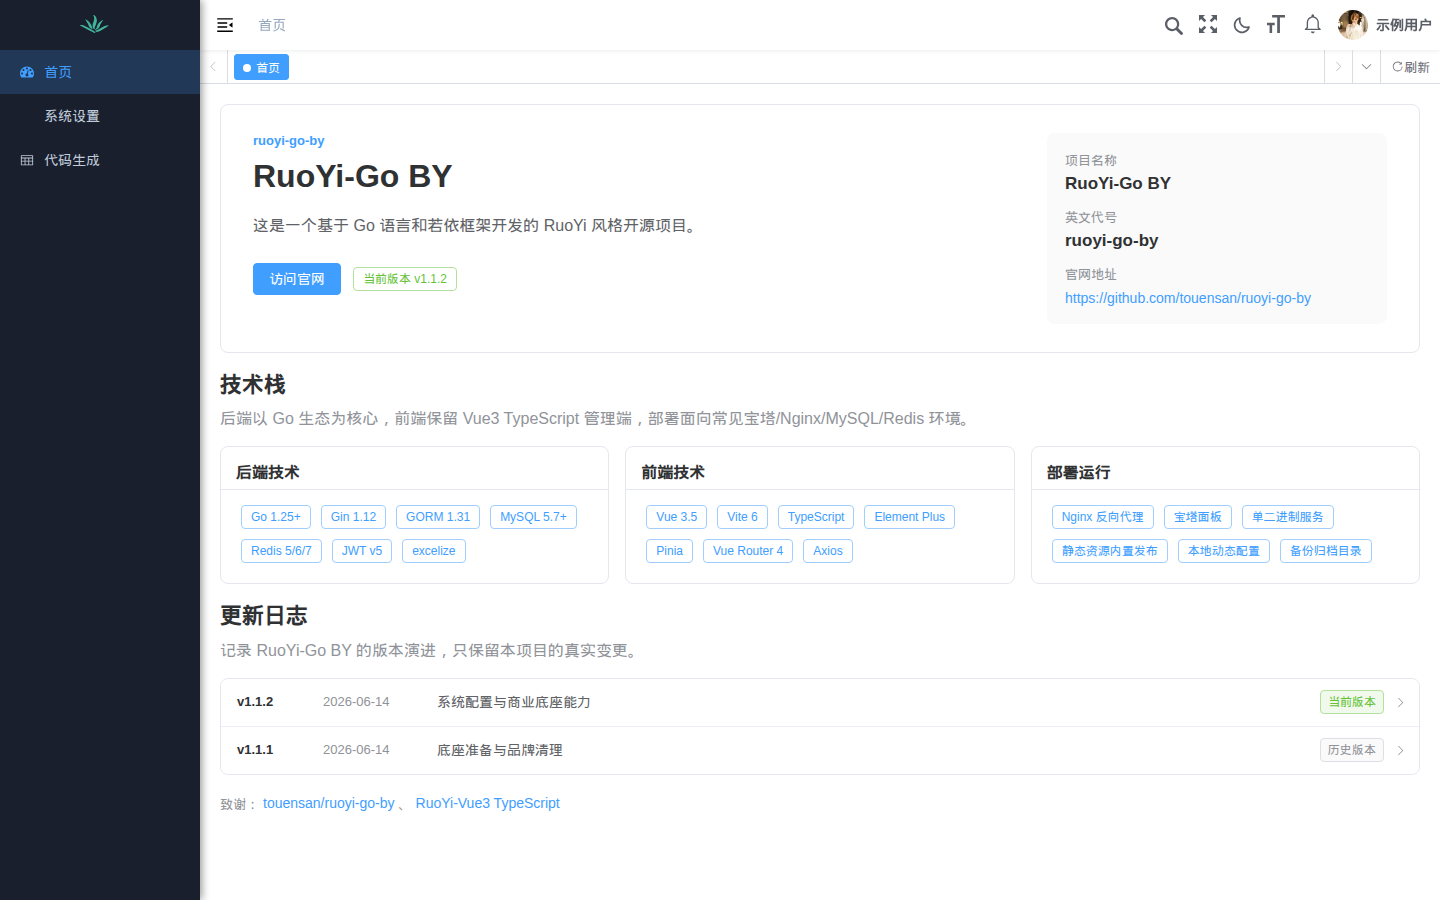
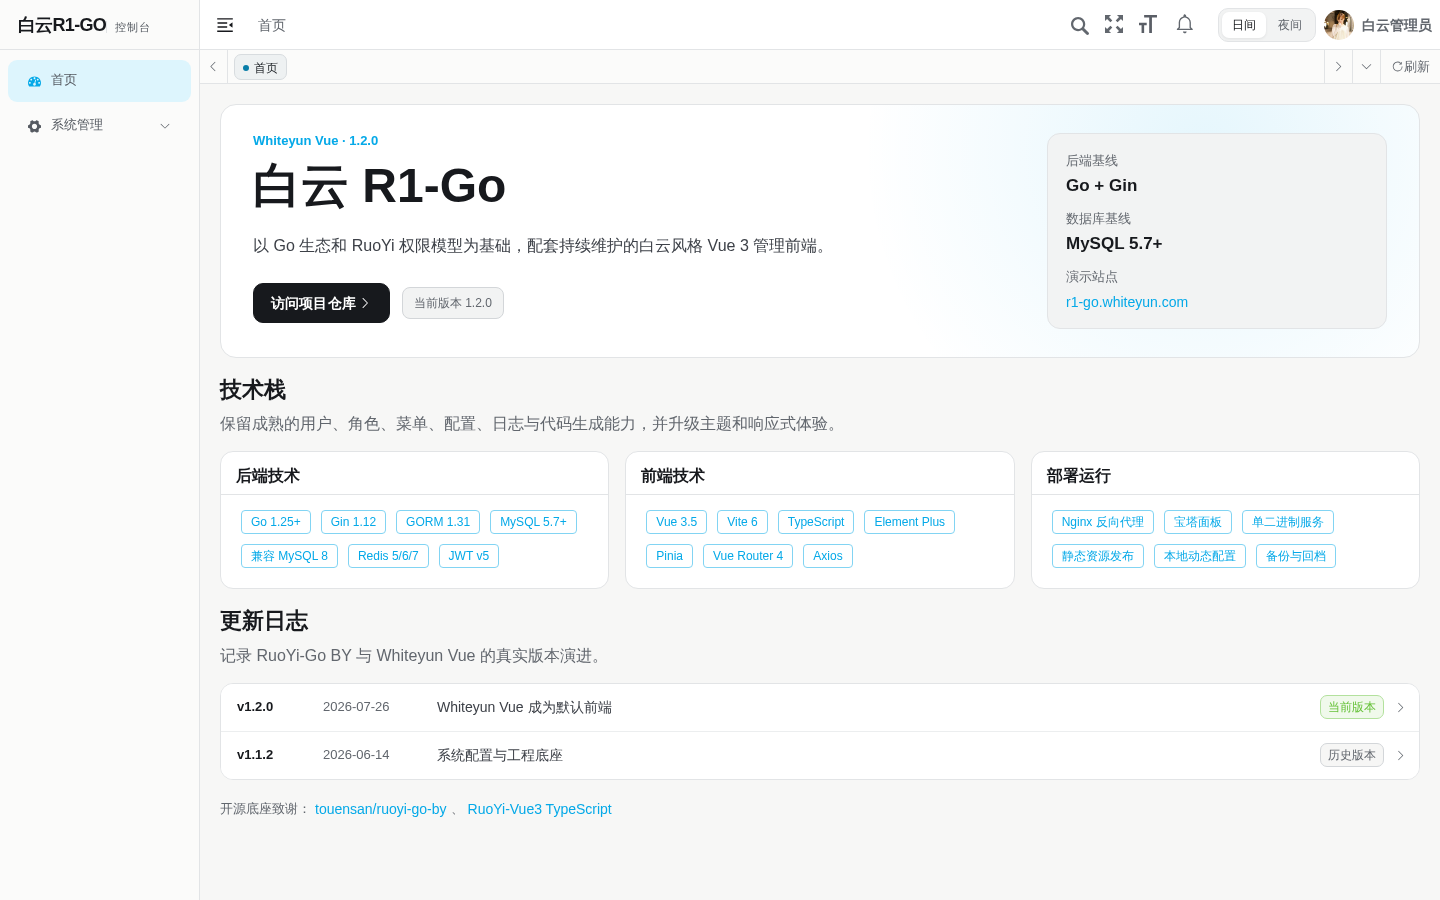
update R1-Go demo with Whiteyun Vue

diff --git a/frontend/whiteyun-vue/src/views/index.vue b/frontend/whiteyun-vue/src/views/index.vue
@@ -2,14 +2,14 @@
   <div class="app-container home">
     <section class="intro-panel">
       <div class="intro-copy">
-        <p class="product-code">授权服务控制台 · {{ productVersion }}</p>
-        <h1>授权业务概览</h1>
+        <p class="product-code">Whiteyun Vue · {{ productVersion }}</p>
+        <h1>白云 R1-Go</h1>
         <p class="product-summary">
-          统一管理应用、授权方案、许可证和运行状态，让签发、激活、续期、暂停与吊销保持清晰可追溯。
+          以 Go 生态和 RuoYi 权限模型为基础，配套持续维护的白云风格 Vue 3 管理前端。
         </p>
         <div class="intro-actions">
-          <el-button class="intro-primary-action" type="primary" @click="goAuthorization">
-            <span>进入授权管理</span>
+          <el-button class="intro-primary-action" type="primary" @click="openProject">
+            <span>访问项目仓库</span>
             <el-icon><ArrowRight /></el-icon>
           </el-button>
           <el-tag class="intro-version-tag" effect="plain">当前版本 {{ productVersion }}</el-tag>
@@ -18,16 +18,16 @@
 
       <div class="runtime-box">
         <div>
-          <span>运行环境</span>
-          <strong>生产试运行</strong>
+          <span>后端基线</span>
+          <strong>Go + Gin</strong>
         </div>
         <div>
-          <span>公开协议</span>
-          <strong>/api/license/v1</strong>
+          <span>数据库基线</span>
+          <strong>MySQL 5.7+</strong>
         </div>
         <div>
-          <span>管理域名</span>
-          <el-link :href="adminOrigin" target="_blank" type="primary">apiauth.whiteyun.com</el-link>
+          <span>演示站点</span>
+          <el-link :href="demoOrigin" target="_blank" type="primary">r1-go.whiteyun.com</el-link>
         </div>
       </div>
     </section>
@@ -35,7 +35,7 @@
     <section class="stack-section">
       <div class="section-heading">
         <h2>技术栈</h2>
-        <p>后端负责许可证、签名租约与公开协议，管理端负责商业目录、许可证、运行态、密钥和审计。</p>
+        <p>保留成熟的用户、角色、菜单、配置、日志与代码生成能力，并升级主题和响应式体验。</p>
       </div>
 
       <el-row :gutter="16">
@@ -55,7 +55,7 @@
     <section class="changelog-section">
       <div class="section-heading">
         <h2>更新日志</h2>
-        <p>记录 APIAuth 的版本演进，只保留本项目的真实变更。</p>
+        <p>记录 RuoYi-Go BY 与 Whiteyun Vue 的真实版本演进。</p>
       </div>
 
       <el-scrollbar class="changelog-scroll" max-height="260px">
@@ -94,15 +94,15 @@
 </template>
 
 <script setup lang="ts">
-const router = useRouter()
-const productVersion = '1.0.0-rc.1'
-const adminOrigin = 'https://apiauth.whiteyun.com/admin/'
+const productVersion = '1.2.0'
+const projectUrl = 'https://github.com/touensan/ruoyi-go-by'
+const demoOrigin = 'https://r1-go.whiteyun.com/'
 const activeLog = ref<string>('')
 
 const stackGroups = [
   {
     title: '后端技术',
-    items: ['Go 1.26.5', 'Gin 1.12', 'GORM 1.31', 'MySQL 5.7+', '兼容 MySQL 8', 'Redis 7', 'Ed25519', 'JWT v5']
+    items: ['Go 1.25+', 'Gin 1.12', 'GORM 1.31', 'MySQL 5.7+', '兼容 MySQL 8', 'Redis 5/6/7', 'JWT v5']
   },
   {
     title: '前端技术',
@@ -110,43 +110,43 @@ const stackGroups = [
   },
   {
     title: '部署运行',
-    items: ['宝塔与 Nginx', 'systemd', '单二进制服务', '静态资源内置', '本机数据服务', '签名备份与恢复']
+    items: ['Nginx 反向代理', '宝塔面板', '单二进制服务', '静态资源发布', '本地动态配置', '备份与回档']
   }
 ]
 
 const changelog = [
   {
-    version: '1.0.0-rc.1',
-    date: '2026-07-25',
-    title: '生产试运行候选',
-    status: '当前候选',
+    version: 'v1.2.0',
+    date: '2026-07-26',
+    title: 'Whiteyun Vue 成为默认前端',
+    status: '当前版本',
     current: true,
-    summary: '统一授权后台、公开协议、三语言 SDK、离线签名与生产运维能力进入试运行验收。',
+    summary: '新增独立维护的 Whiteyun Vue 前端，同时保留冻结的 RuoYi Vue 兼容版本。',
     items: [
-      '管理应用、版本、权益、套餐、许可证、运行态、签名密钥和授权审计。',
-      '公开授权 API 支持激活、刷新、解绑、公钥集、离线请求与更新检查。',
-      'Go、PHP/WordPress、Java SDK 共享 Ed25519 签名租约与三态验证语义。',
-      '许可证与安装凭据只存摘要，完整许可证仅在受控签发或替换响应中显示一次。',
-      'Nginx、systemd、MySQL 8、Redis 7、备份恢复与监控基线已部署；程序以 MySQL 5.7+ 为兼容基准。'
+      '重做管理端日间与夜间配色，统一侧边栏、顶部导航、标签页、表单和弹层。',
+      '三种导航布局均可随主题正确切换，桌面、平板和手机端保持可用。',
+      '登录页、后台首页、系统配置与代码生成页面共享同一套视觉变量。',
+      '默认构建入口切换到 frontend/whiteyun-vue，历史路径继续兼容旧脚本。',
+      'frontend/ruoyi-vue 仅作旧视觉兼容保留，不再接收常规功能与界面更新。'
     ]
   },
   {
-    version: 'foundation',
-    date: '2026-07-25',
-    title: '授权平台工程底座',
-    status: '已替代',
+    version: 'v1.1.2',
+    date: '2026-06-14',
+    title: '系统配置与工程底座',
+    status: '历史版本',
     current: false,
-    summary: '在 ruoyi-go-by 与 RuoYi-Vue3 TypeScript 基础上建立 APIAuth 独立商业授权领域。',
+    summary: '补齐站点、支付和邮箱配置，并整理后端运行、构建与部署基础。',
     items: [
-      '管理 JWT/RBAC 与客户端许可证身份域保持隔离。',
-      'MySQL 版本化 migration 是数据库结构唯一权威，生产禁用自动迁移。',
-      '应用、套餐、许可证与签名租约的关键写入保持事务、幂等与审计一致。'
+      '系统配置集中管理站点信息、支付参数和邮箱参数。',
+      '后端基于 Go、Gin、GORM、MySQL、Redis 与 JWT。',
+      '管理端继续兼容动态菜单、RBAC、文件上传和代码生成。'
     ]
   }
 ]
 
-function goAuthorization(): void {
-  router.push('/auth/catalog')
+function openProject(): void {
+  window.open(projectUrl, '_blank', 'noopener,noreferrer')
 }
 </script>
 

diff --git a/frontend/whiteyun-vue/src/views/login.vue b/frontend/whiteyun-vue/src/views/login.vue
@@ -1,10 +1,10 @@
 <template>
   <div class="login">
     <header class="login-header">
-      <a href="/" class="login-brand" aria-label="返回 APIAuth 官网">APIAuth</a>
+      <a href="/" class="login-brand" :aria-label="`${appTitle} 首页`">{{ appTitle }}</a>
       <nav class="login-nav" aria-label="辅助导航">
-        <a href="/">官网首页</a>
-        <a href="/docs/">接入文档</a>
+        <a href="/">演示首页</a>
+        <a href="https://github.com/touensan/ruoyi-go-by" target="_blank" rel="noreferrer">项目仓库</a>
         <div class="theme-segmented" role="group" aria-label="界面主题">
           <button type="button" :class="{ active: !settingsStore.isDark }" @click="settingsStore.setTheme(false)">日间</button>
           <button type="button" :class="{ active: settingsStore.isDark }" @click="settingsStore.setTheme(true)">夜间</button>
@@ -15,21 +15,21 @@
     <main class="login-shell">
       <section class="login-story">
         <div class="story-copy">
-          <span class="release-badge"><i></i> 授权服务运行中</span>
-          <p class="eyebrow">APIAuth 授权控制中心</p>
-          <h1>软件授权<br>一处管理</h1>
-          <p class="story-summary">创建应用与授权方案，签发许可证，并管理激活、续期、暂停与吊销。</p>
+          <span class="release-badge"><i></i> Whiteyun Vue 已启用</span>
+          <p class="eyebrow">{{ appTitle }} 管理控制台</p>
+          <h1>清晰管理<br>高效协作</h1>
+          <p class="story-summary">基于 Go、Vue 3 与 RuoYi 权限模型构建的通用后台管理底座。</p>
           <div class="capability-list" aria-label="产品能力">
-            <span>在线激活</span>
-            <span>离线授权</span>
-            <span>三态验权</span>
-            <span>Ed25519</span>
+            <span>用户权限</span>
+            <span>系统配置</span>
+            <span>操作审计</span>
+            <span>代码生成</span>
           </div>
         </div>
         <div class="cube-visual" aria-hidden="true">
           <img :src="cubeVisualUrl" alt="">
           <div class="visual-status">
-            <span><i></i>许可证运营台</span>
+            <span><i></i>系统控制台</span>
             <strong>运行正常</strong>
           </div>
         </div>
@@ -89,7 +89,7 @@
             <router-link v-if="register" class="link-type" :to="'/register'">立即注册</router-link>
           </el-form-item>
         </el-form>
-        <p class="login-note">账号由平台管理员开通；许可证用户无需登录此处。</p>
+        <p class="login-note">请使用管理员分配的账号登录；生产部署前务必更换示例凭据。</p>
       </section>
     </main>
 
@@ -105,11 +105,12 @@ import Cookies from "js-cookie"
 import useUserStore from '@/store/modules/user'
 import useSettingsStore from '@/store/modules/settings'
 import defaultSettings from '@/settings'
-import cubeVisualUrl from '../../../site-resend-preview/static/cube-fallback.jpg'
+import cubeVisualUrl from '@/assets/images/login-background.jpg'
 import type { CaptchaInfoResult } from '@/types/api/login'
 import type { LoginForm } from '@/types/api/login'
 
 const footerContent = defaultSettings.footerContent
+const appTitle = import.meta.env.VITE_APP_TITLE || 'Whiteyun Vue'
 const userStore = useUserStore()
 const settingsStore = useSettingsStore()
 const route = useRoute()

diff --git a/frontend/whiteyun-vue/src/layout/components/Sidebar/Logo.vue b/frontend/whiteyun-vue/src/layout/components/Sidebar/Logo.vue
@@ -2,10 +2,10 @@
   <div class="sidebar-logo-container" :class="{ 'collapse': collapse }">
     <transition name="sidebarLogoFade">
       <router-link v-if="collapse" key="collapse" class="sidebar-logo-link" to="/">
-        <span class="sidebar-monogram" aria-label="APIAuth">A</span>
+        <span class="sidebar-monogram" :aria-label="appTitle">{{ monogram }}</span>
       </router-link>
       <router-link v-else key="expand" class="sidebar-logo-link" to="/">
-        <span class="sidebar-wordmark">APIAuth</span>
+        <span class="sidebar-wordmark">{{ appTitle }}</span>
         <span class="sidebar-console">控制台</span>
       </router-link>
     </transition>
@@ -13,6 +13,9 @@
 </template>
 
 <script setup lang="ts">
+const appTitle = import.meta.env.VITE_APP_TITLE || 'Whiteyun Vue'
+const monogram = appTitle.trim().charAt(0).toUpperCase() || 'W'
+
 defineProps({
   collapse: {
     type: Boolean,
@@ -62,10 +65,14 @@ defineProps({
     }
 
     .sidebar-wordmark {
+      min-width: 0;
+      overflow: hidden;
       color: var(--sidebar-logo-text);
       font-size: 18px;
       font-weight: 650;
       letter-spacing: -0.04em;
+      text-overflow: ellipsis;
+      white-space: nowrap;
     }
 
     .sidebar-console {

diff --git a/frontend/whiteyun-vue/src/settings.ts b/frontend/whiteyun-vue/src/settings.ts
@@ -62,5 +62,5 @@ export default {
   /**
    * 底部版权文本内容
    */
-  footerContent: '© 2026 APIAuth 授权服务'
+  footerContent: '© 2026 Whiteyun Vue 管理控制台'
 }

diff --git a/README.md b/README.md
@@ -4,10 +4,15 @@
 
 本仓库是一个可独立运行的开源代码副本，默认配置仅用于本地开发。部署前请修改数据库、Redis、JWT 密钥和所有默认账号配置。
 
+管理端现已默认使用 `Whiteyun Vue`（白云风格前端）。原有 `RuoYi Vue`
+仍保留在仓库中供旧项目兼容选择，但后续功能、适配和视觉更新只维护
+`Whiteyun Vue`。
+
 ## 技术栈
 
-- 后端：Go 1.25+、Gin、GORM、MySQL、Redis、JWT、excelize
-- 前端：Vue 3、Vite、TypeScript、Element Plus、Pinia、Vue Router、Axios
+- 后端：Go 1.25+、Gin、GORM、MySQL 5.7+（兼容 MySQL 8）、Redis、JWT、excelize
+- 默认前端：Whiteyun Vue、Vue 3、Vite、TypeScript、Element Plus、Pinia、Vue Router、Axios
+- 兼容前端：RuoYi Vue，仅保留旧视觉与旧二次开发兼容
 
 ## 功能差异
 
@@ -21,7 +26,7 @@
 
 ## 界面预览
 
-以下截图使用 Chromium 在本地脱敏前端和演示数据生成，不包含生产账号或真实业务数据。
+以下截图来自 [白云 R1-Go 演示站](https://r1-go.whiteyun.com/)，截图中的支付字段已脱敏，不包含生产账号、密钥或真实业务数据。
 
 ### 后台首页
 
@@ -35,9 +40,9 @@
 
 ![支付配置](docs/screenshots/payment-settings.png)
 
-### 代码生成
+### 菜单管理
 
-![代码生成](docs/screenshots/code-generator.png)
+![菜单管理](docs/screenshots/menu-management.png)
 
 ## 后端运行
 
@@ -50,19 +55,29 @@ go run main.go
 
 ## 前端运行
 
+默认使用持续维护的 Whiteyun Vue：
+
 ```bash
-cd frontend/RuoYi-Vue3-ts
+cd frontend/whiteyun-vue
 cp .env.example .env.development
-npm install
+npm ci
 npm run dev
 ```
+
+需要旧若依视觉时，可改用 `frontend/ruoyi-vue`。两套前端的定位和构建方式见
+[frontend/README.md](frontend/README.md)。
 
 ## 构建
 
 ```bash
 go build -o ruoyi-go-by main.go
-cd frontend/RuoYi-Vue3-ts
-npm run build:prod
+frontend/build-admin.sh
+```
+
+如需构建冻结的旧版前端：
+
+```bash
+APIAUTH_ADMIN_FRONTEND=ruoyi-vue frontend/build-admin.sh
 ```
 
 ## 数据库

diff --git a/design-qa.md b/design-qa.md
@@ -1,0 +1,11 @@
+# Whiteyun Vue 演示站设计验收
+
+- 验收地址：`https://r1-go.whiteyun.com/admin/`
+- 参考状态：用户提供的旧版白云 R1-Go 演示站截图
+- 验收状态：日间与夜间模式、桌面 1440×900、平板 768×1024、手机 390×844
+- 功能页面：首页、系统配置、支付配置、菜单管理
+- 自动检查：各视口横向溢出均为 `0`，浏览器控制台与页面运行错误均为 `0`
+- 数据检查：截图中的支付网关、商户 ID 与商户密钥仅在浏览器 DOM 中脱敏后截图，没有修改演示站配置
+- 差异结论：新版本保留旧站的信息结构，同时替换为 Whiteyun Vue 的主题、导航、卡片、按钮与响应式体系；误混入的 APP 管理导航已经消失
+
+Result: passed

diff --git a/frontend/whiteyun-vue/README.md b/frontend/whiteyun-vue/README.md
@@ -1,9 +1,9 @@
 # Whiteyun Vue 管理端
 
-APIAuth 默认管理前端，中文名称为“白云风格前端”。
+RuoYi-Go BY 默认管理前端，中文名称为“白云风格前端”。
 
 它仍然继承 RuoYi Vue 3 的 Vue、Vite、Element Plus、动态路由与 RBAC 工程基础，
-但视觉体系、主题变量、导航矩阵、响应式布局、登录页和授权工作台已经由本项目独立
+但视觉体系、主题变量、导航矩阵、响应式布局和登录页已经由本项目独立
 维护。后续功能、兼容性和界面更新均以本目录为准。
 
 ## 运行

diff --git a/frontend/README.md b/frontend/README.md
@@ -1,4 +1,4 @@
-# APIAuth 管理前端
+# RuoYi-Go BY 管理前端
 
 项目保留两套可选管理前端，二者共享同一套后端 API、动态菜单和权限模型。
 
